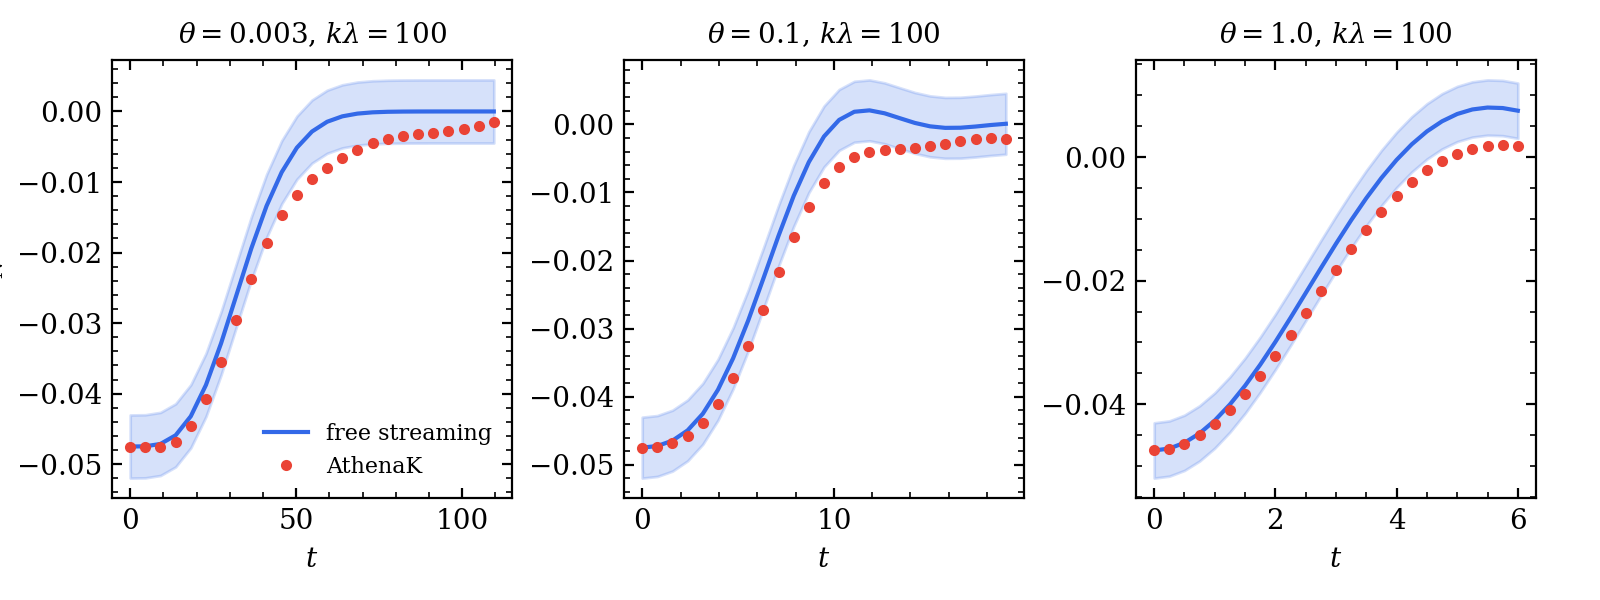
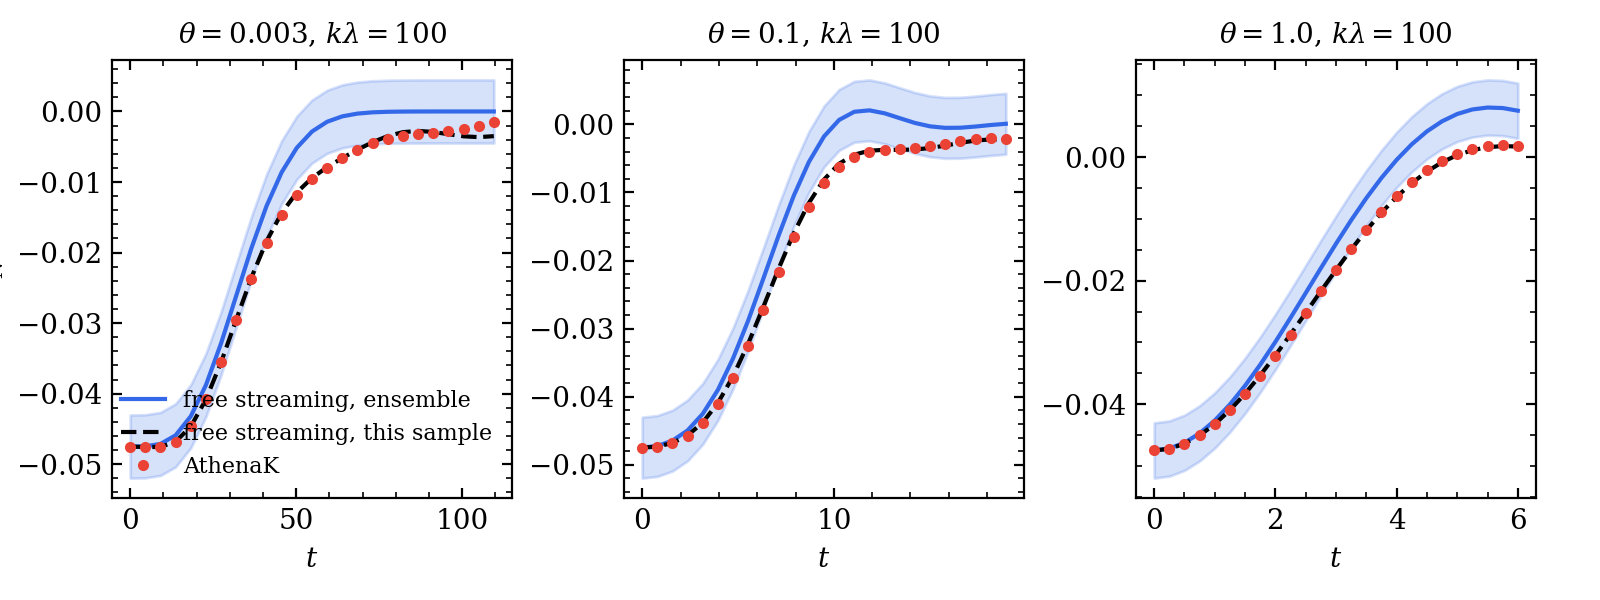
heat: T7 collisionless check passed; the code follows the free streaming of its sample to 0.05-0.27 noise units (analysis C-20261119-152845-017d186)
Claude-Session: https://claude.ai/code/session_0199y7HEXiYfCzUzsqxwMTnx

Changed region(s): [[0.0625, 0.63, 0.3125, 0.81], [0.2812, 0.21, 0.3125, 0.24]]

diff --git a/tracks/C-sidm/heat/JOURNAL.md b/tracks/C-sidm/heat/JOURNAL.md
@@ -165,3 +165,18 @@ exceeds P = 1) held: TESTS.md T8's "the deficit is reported" has nothing to repo
 sub-cycling buys is not the rate but the time resolution of successive collisions (T8
 part 1). Figure `figs/T8_t2_nosub.png` (looked at: both ratios scatter by 3-5e-4 per step
 around 1, no trend over 200 steps).
+
+## 2026-11-19 15:31 Outcome T7 collisionless check: confirmed (runs C-20261119-150358-3805fd5, analysis C-20261119-152845-017d186)
+
+k lambda = 100, 4e5 particles, eps = 0.05, theta 0.003, 0.1, 1 (to 6/(k sqrt(theta)) or 6/k).
+Against `mode_collisionless` (ensemble): max |z| = 3.03, 3.08, 2.89 (< 4: pass as written),
+rms z 1.80, 1.89, 2.01. The rms looked systematic in the first analysis (C-20261119-152743-
+2367d74, superseded): the code lies below the ensemble curve by 1-2 noise units at all
+three temperatures. Checked before naming a cause: the free streaming of the same sample
+(deterministic) lies there too (rms z sample vs ensemble 1.80, 1.80, 2.05: make_box draws
+the positions of all three from seed 1 with the same box, so the three runs share one
+noise realization), and the code follows it to rms 0.27, 0.14, 0.05 noise units (max 0.90,
+0.27, 0.09); the remainder grows with the fraction of particles that collided by the end
+(12.5, 11.1, 5.7 percent), as collisions slow the phase mixing. Figure
+`figs/T7_collisionless.png` (looked at; the legend covers the first points of the left
+panel).
